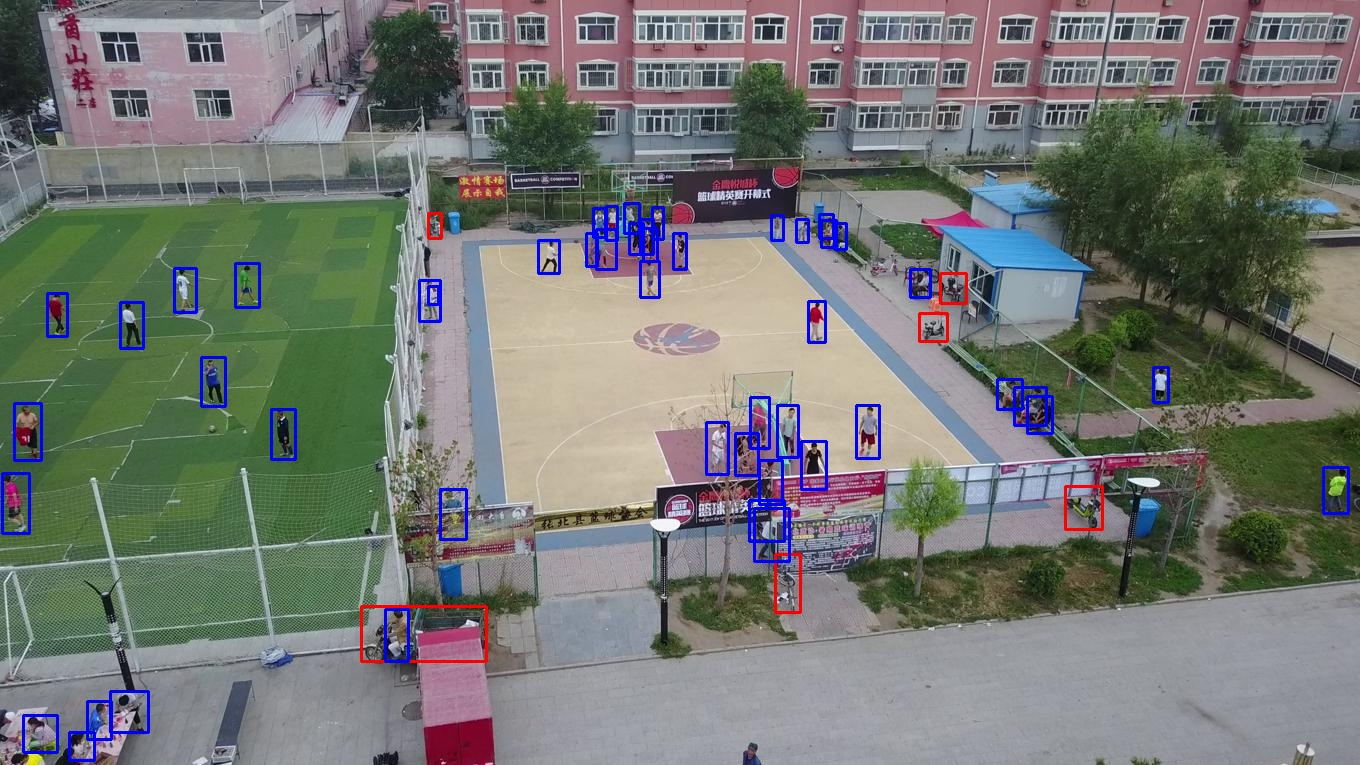
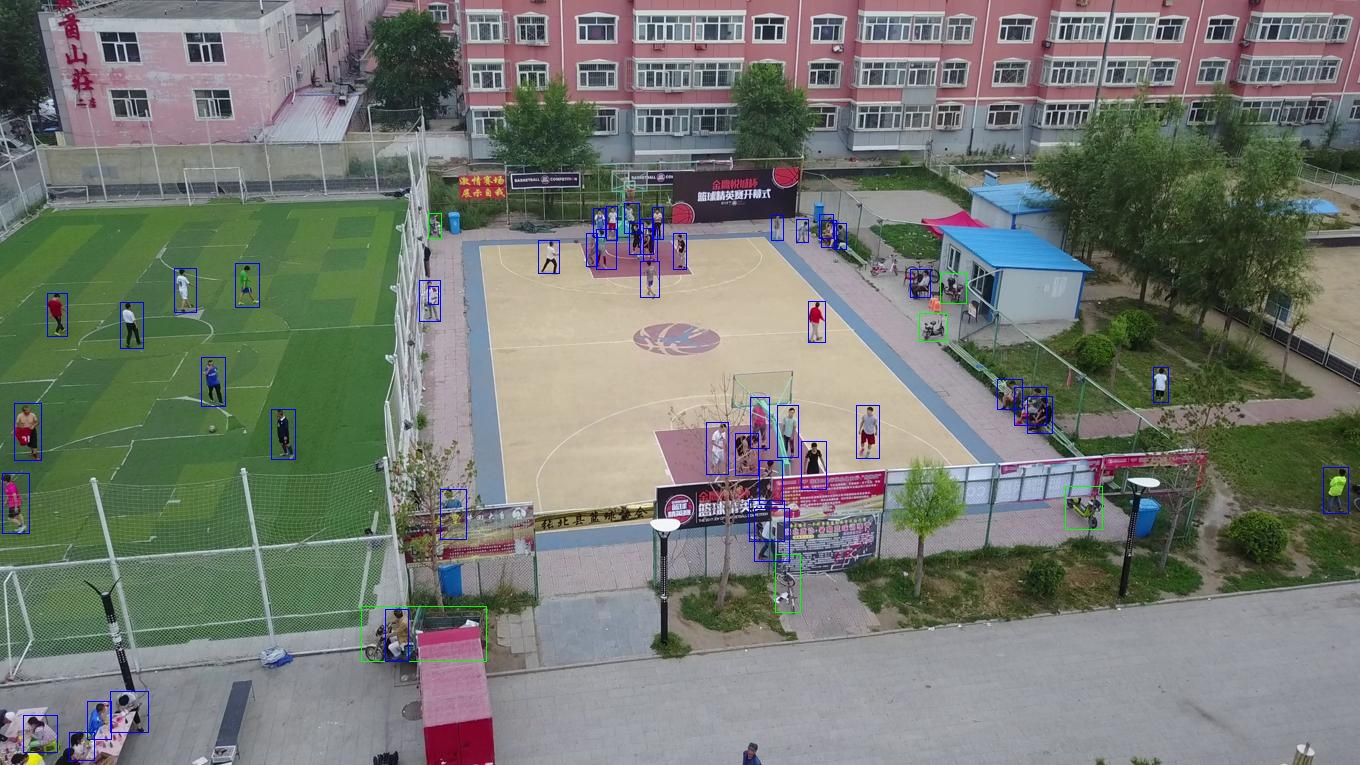
refactor into separate files

diff --git a/src/main.py b/src/main.py
@@ -1,61 +1,6 @@
-import csv
 import cv2
-
-green = (0, 255, 0)
-blue = (255, 0, 0)
-
-
-class Deteccao:
-    def __init__(self, classe_id: int, x_min: int, y_min: int, x_max: int, y_max: int):
-        self.classe_id = classe_id
-        self.x_min = x_min
-        self.y_min = y_min
-        self.x_max = x_max
-        self.y_max = y_max
-
-    def desenhar(self, img):
-        cor = blue if self.classe_id == 0 else green
-        cv2.rectangle(img, (self.x_min, self.y_min), (self.x_max, self.y_max), cor, 2)
-
-
-class ImagemAnotada:
-    def __init__(self, img_name: str, boxes: list[Deteccao]):
-        self.img_name = img_name
-        self.boxes = boxes
-
-    def adicionar_deteccao(self):
-        img = cv2.imread(f"imagens/{self.img_name}")
-
-        if img is None:
-            print("Erro ao carregar imagem")
-        else:
-            for box in self.boxes:
-                box.desenhar(img)
-
-            cv2.imshow("Imagem Anotada", img)
-            cv2.waitKey(0)
-            cv2.imwrite(f"resultados/{self.img_name}", img)
-
-
-# dicio pra guardar as deteccoes de cada imagem,
-# a chave eh o nome da imagem
-# e o valor eh uma lista de objetos Deteccao
-# guardadas em memoria
-boxes_per_img = {}
-
-with open("dados/anotacoes.csv", "r") as file:
-    reader = csv.reader(file)
-    next(reader)
-    for row in reader:
-        img_name: str = row[0]
-        img_box = Deteccao(
-            int(row[1]), int(row[2]), int(row[3]), int(row[4]), int(row[5])
-        )
-        # verifica se a imagem ja esta guardada, se nao estiver cria uma lista para vazia para ela
-        if img_name not in boxes_per_img:
-            boxes_per_img[img_name] = []
-        # adiciona a caixa na lista de caixas da imagem
-        boxes_per_img[img_name].append(img_box)
+from arquivos import boxes_per_img
+from modelos import ImagemAnotada
 
 for img_name, boxes in boxes_per_img.items():
     img = ImagemAnotada(img_name, boxes)

diff --git a/src/modelos.py b/src/modelos.py
@@ -1,0 +1,37 @@
+import cv2
+
+green = (0, 255, 0)
+blue = (255, 0, 0)
+
+
+class Deteccao:
+    def __init__(self, classe_id: int, x_min: int, y_min: int, x_max: int, y_max: int):
+        self.classe_id = classe_id
+        self.x_min = x_min
+        self.y_min = y_min
+        self.x_max = x_max
+        self.y_max = y_max
+
+    def desenhar(self, img):
+        cor = blue if self.classe_id == 0 else green
+        cv2.rectangle(img, (self.x_min, self.y_min), (self.x_max, self.y_max), cor, 1)
+
+
+class ImagemAnotada:
+    def __init__(self, img_name: str, boxes: list[Deteccao]):
+        self.img_name = img_name
+        self.boxes = boxes
+
+    def adicionar_deteccao(self):
+        img = cv2.imread(f"imagens/{self.img_name}")
+
+        if img is None:
+            print("Erro ao carregar imagem")
+            return
+        else:
+            for box in self.boxes:
+                box.desenhar(img)
+
+            cv2.imshow("Imagem Anotada", img)
+            cv2.waitKey(0)
+            cv2.imwrite(f"resultados/{self.img_name}", img)

diff --git a/src/arquivos.py b/src/arquivos.py
@@ -1,0 +1,22 @@
+import csv
+from modelos import Deteccao
+
+# dicio pra guardar as deteccoes de cada imagem,
+# a chave eh o nome da imagem
+# e o valor eh uma lista de objetos Deteccao
+# guardadas em memoria
+boxes_per_img = {}
+
+with open("dados/anotacoes.csv", "r") as file:
+    reader = csv.reader(file)
+    next(reader)
+    for row in reader:
+        img_name: str = row[0]
+        img_box = Deteccao(
+            int(row[1]), int(row[2]), int(row[3]), int(row[4]), int(row[5])
+        )
+        # verifica se a imagem ja esta guardada, se nao estiver cria uma lista para vazia para ela
+        if img_name not in boxes_per_img:
+            boxes_per_img[img_name] = []
+        # adiciona a caixa na lista de caixas da imagem
+        boxes_per_img[img_name].append(img_box)
